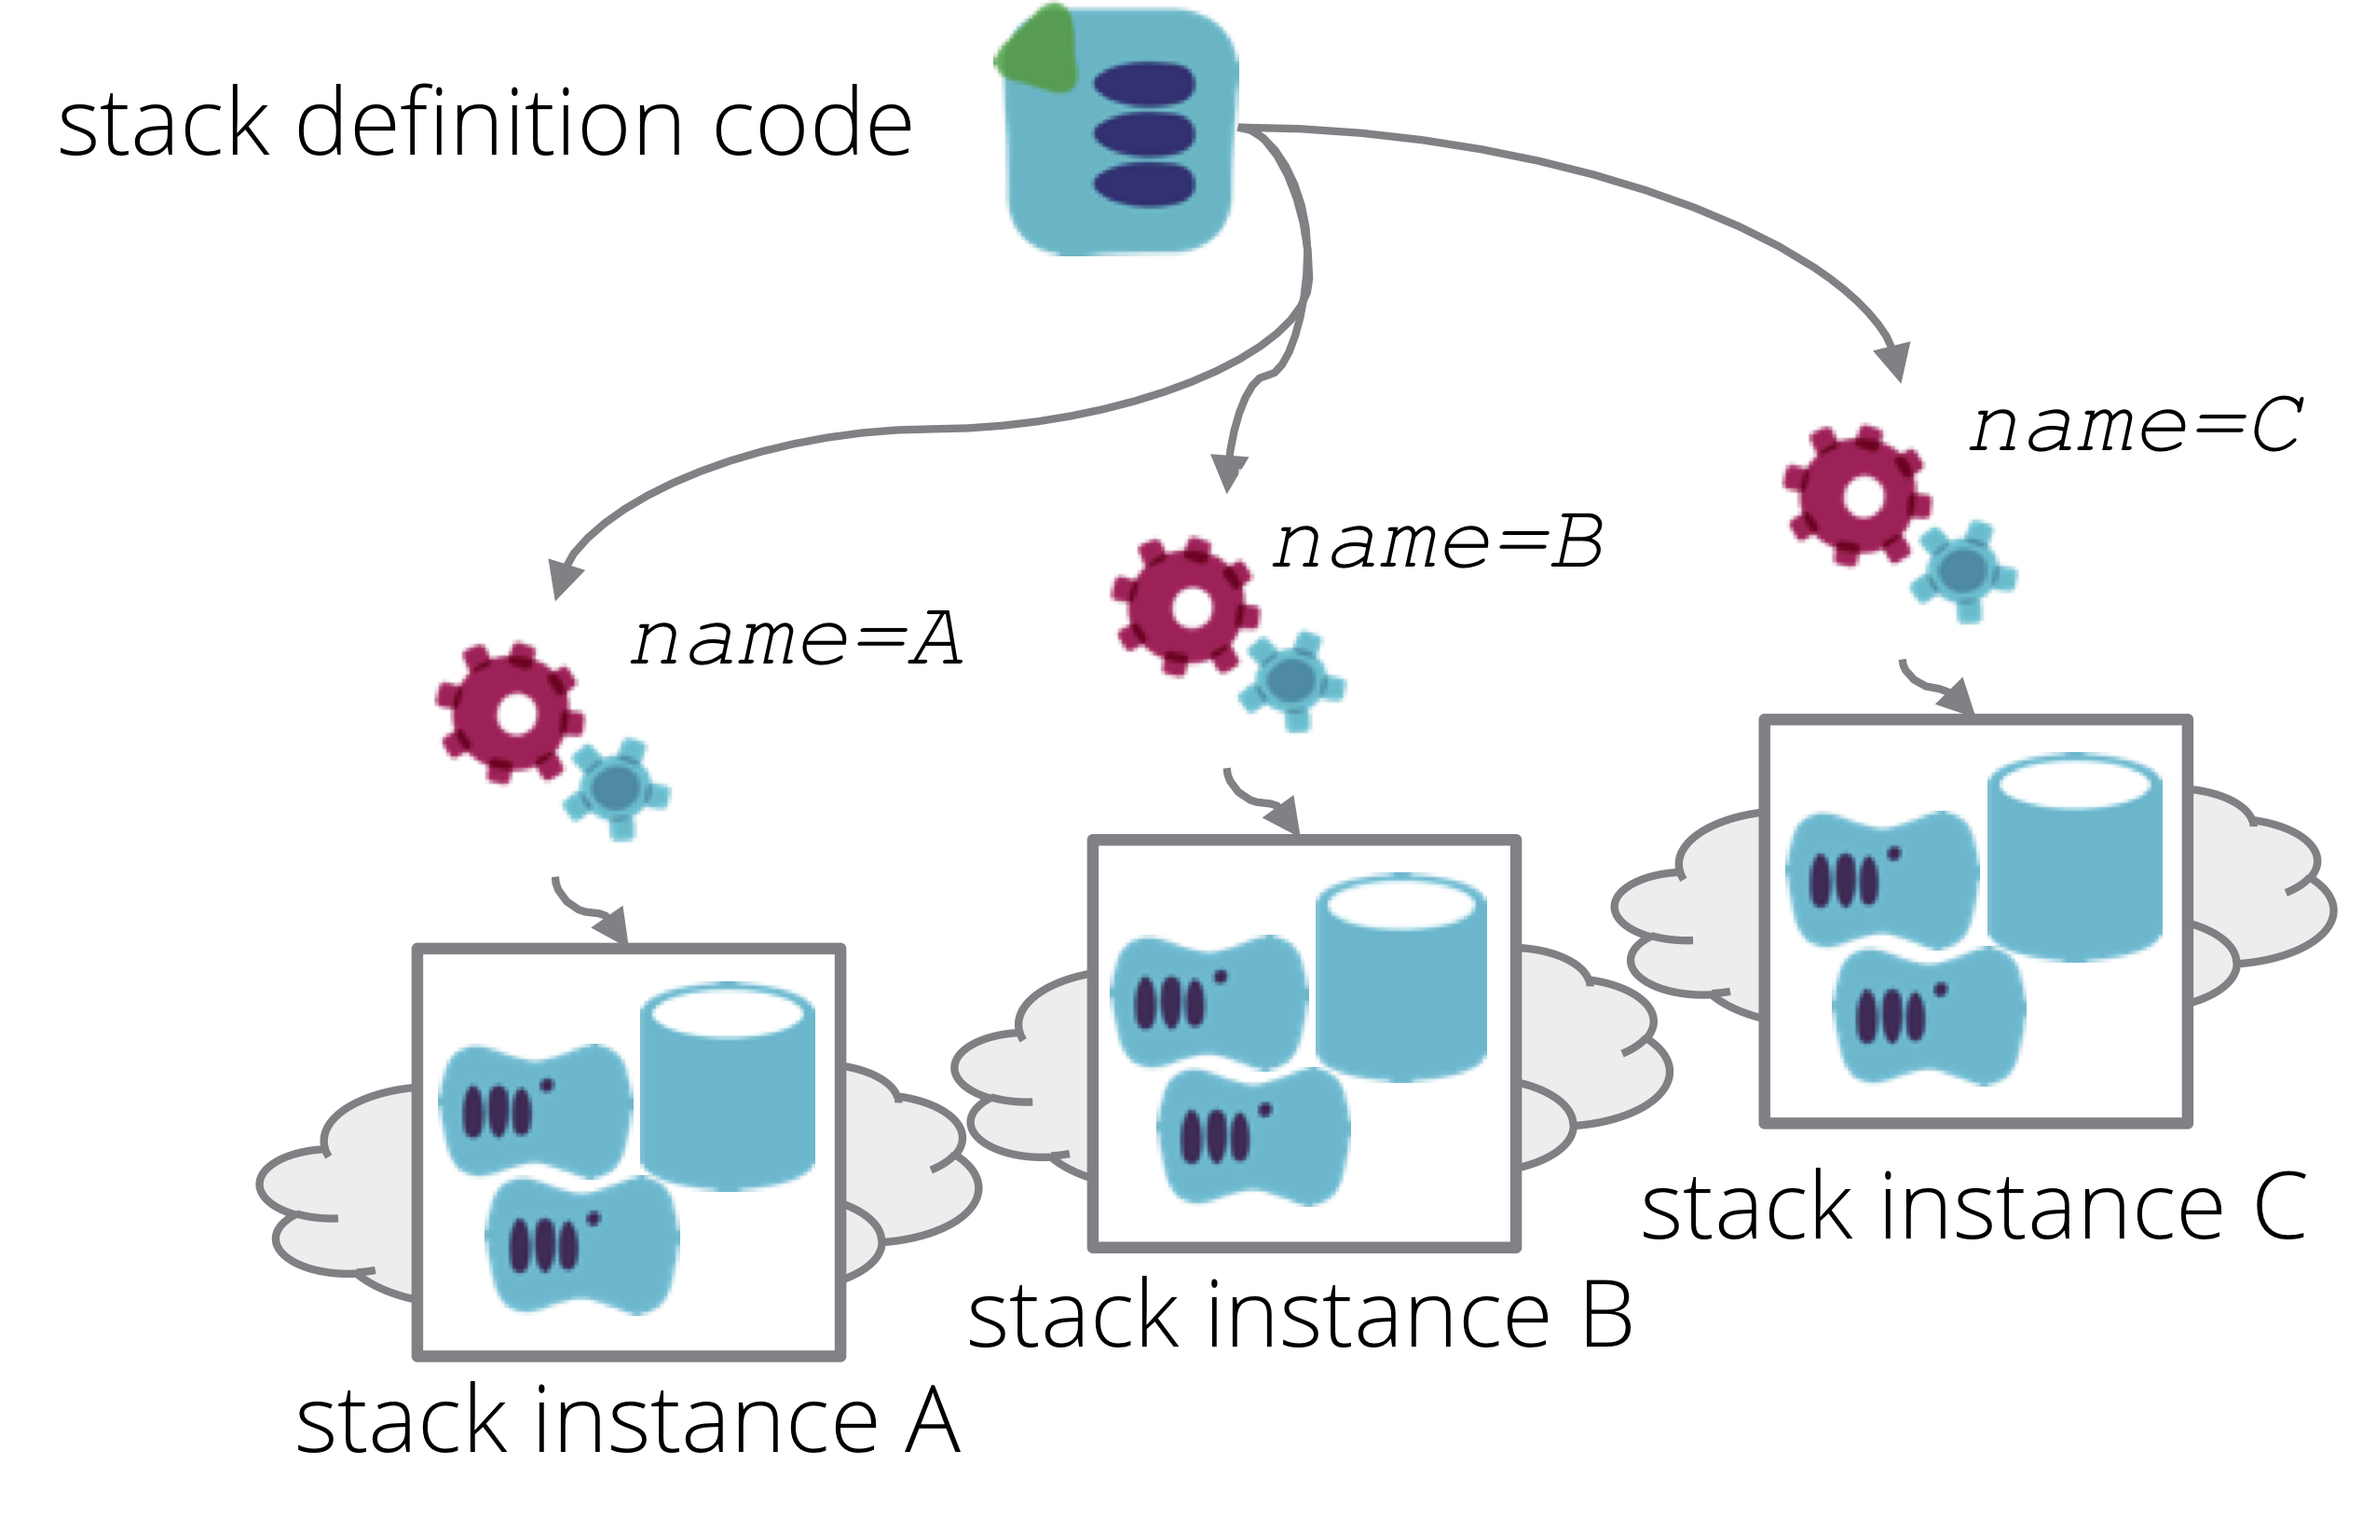
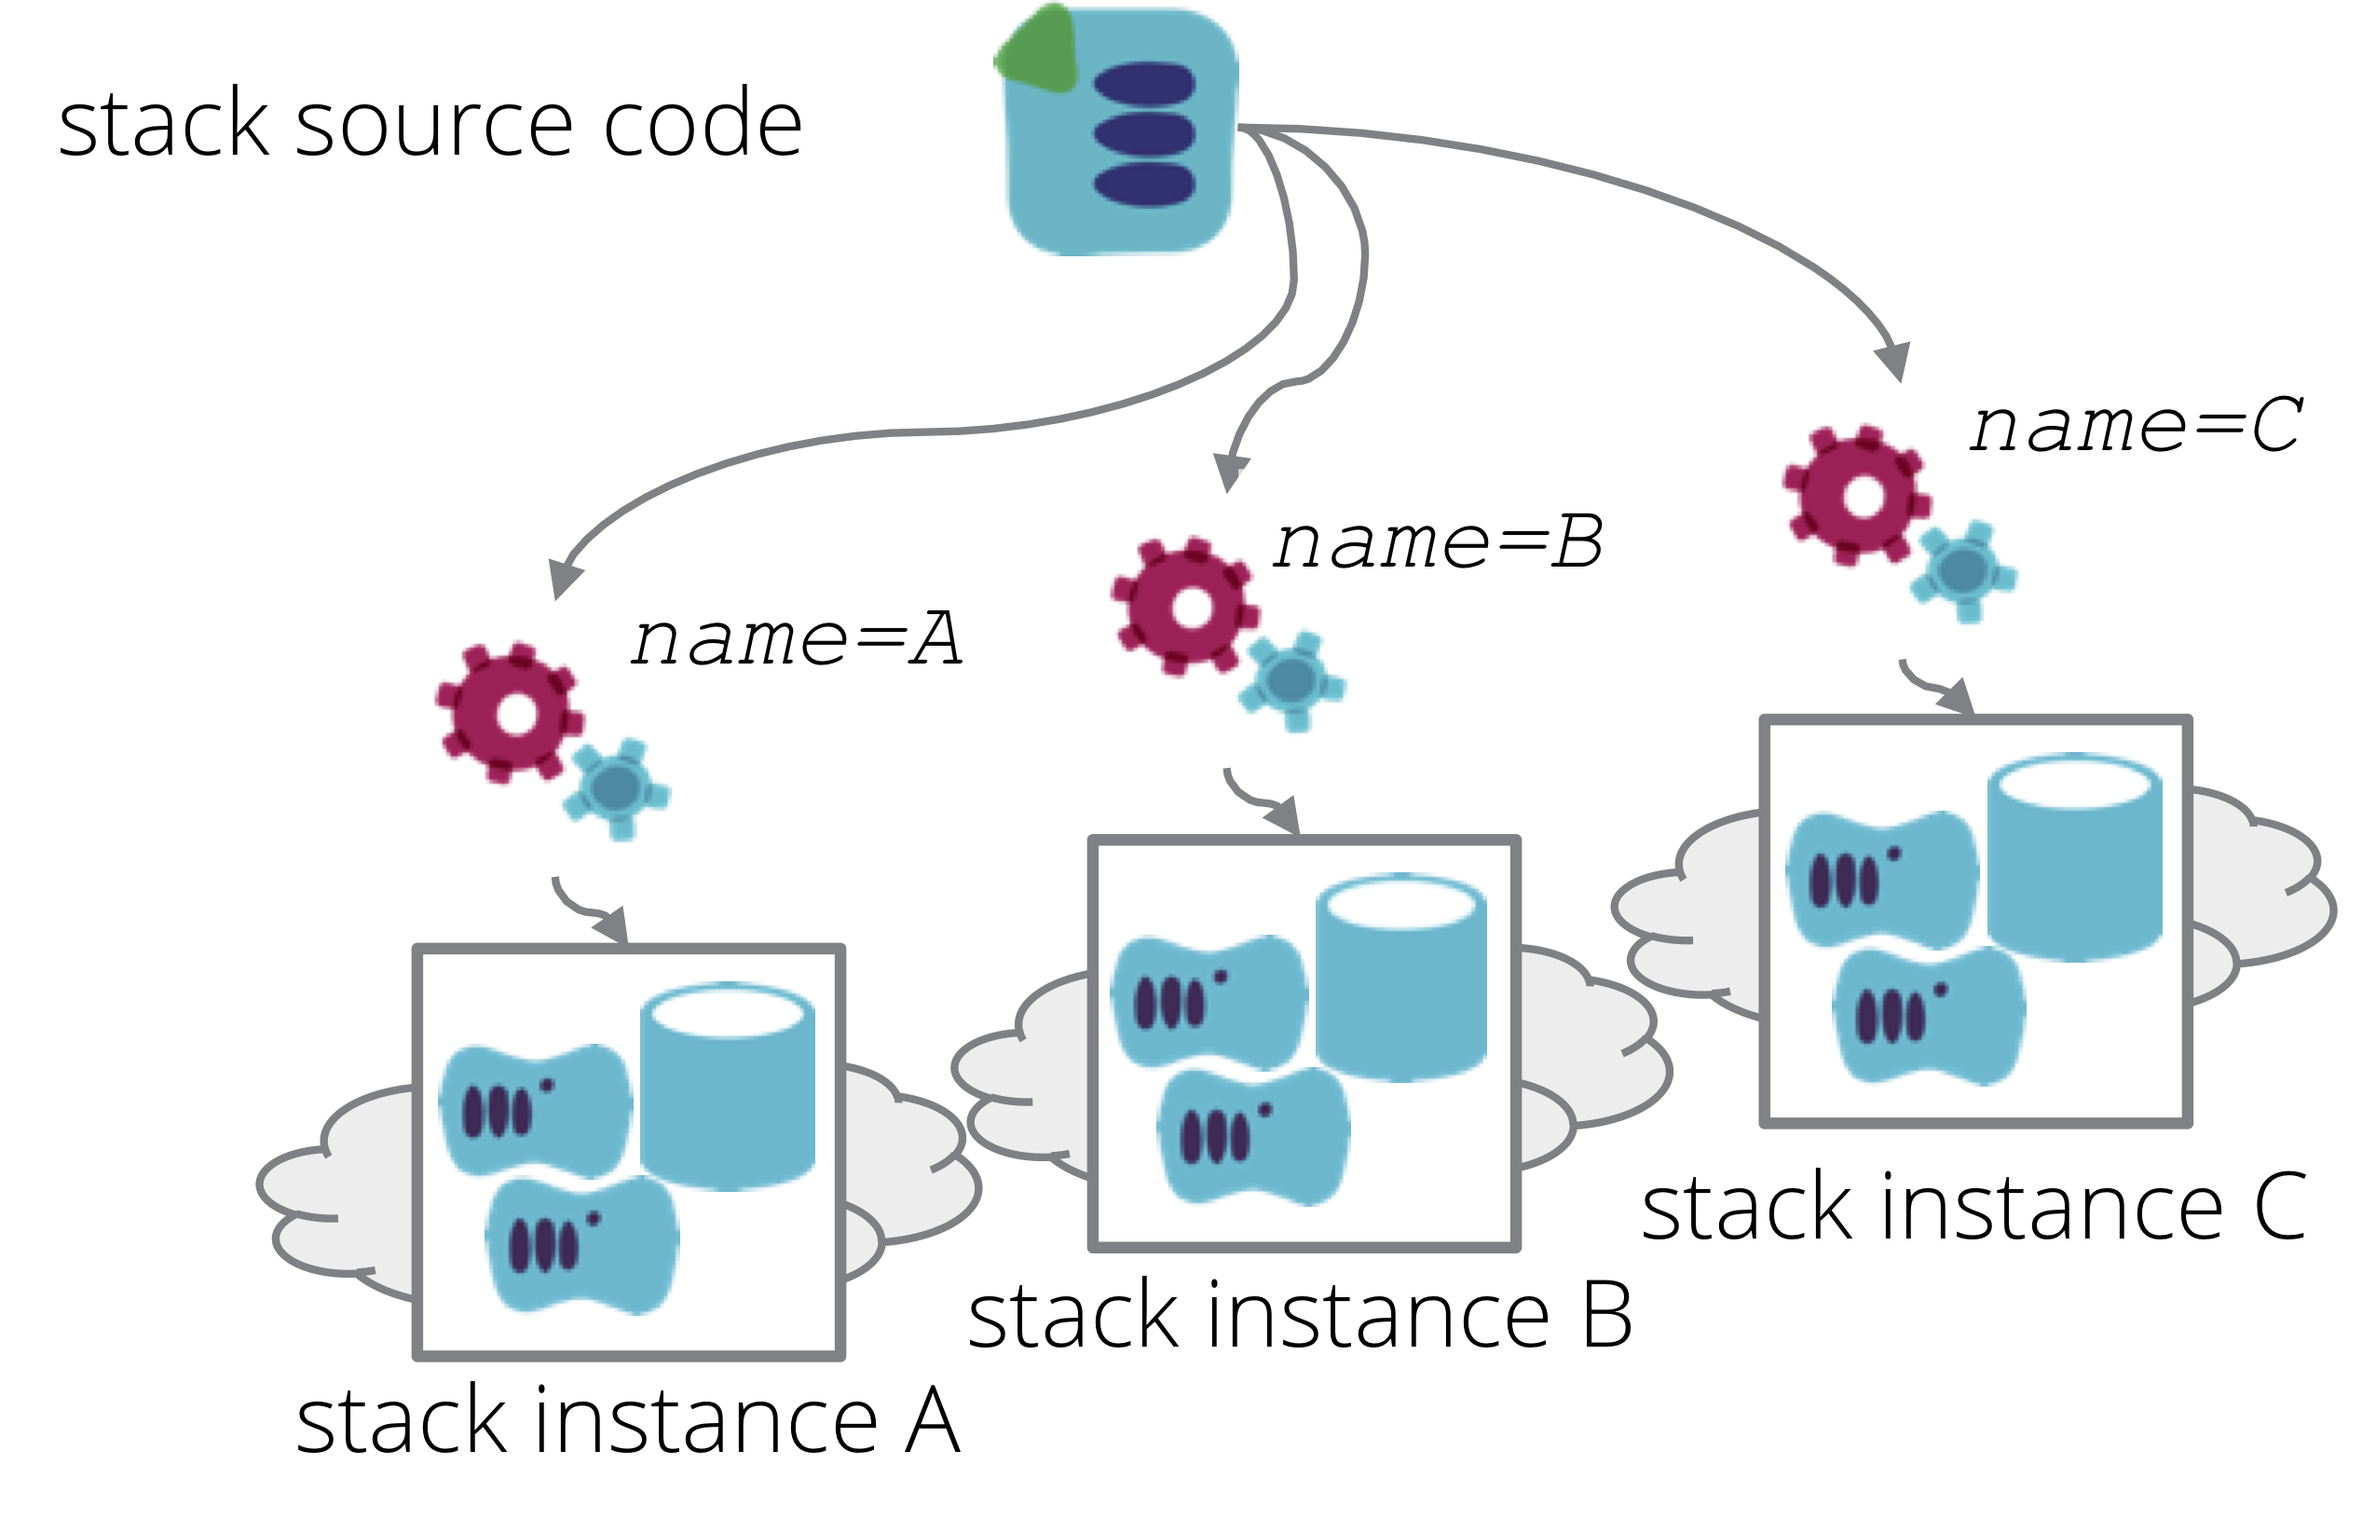
Purging definition as a term

Changed region(s): [[0.4957, 0.093, 0.5886, 0.31], [0.1239, 0.062, 0.3718, 0.124], [0.3408, 0.279, 0.3718, 0.31]]

diff --git a/_patterns/core-stack/template-stack.md b/_patterns/core-stack/template-stack.md
@@ -8,11 +8,11 @@ published: true
 status: review
 ---
 
-A Template Stack is an [infrastructure stack](/patterns/core-stack/) that is designed to be replicated consistently. The code for the stack definition can be used to create multiple instances, with minimum variation between them.
+A Template Stack is an [infrastructure stack](/patterns/core-stack/) that is designed so that its source code can be used to create and manage multiple, consistent instances.
 
 A great benefit of defining infrastructure as code is that it's easy to replicate infrastructure. This has a variety of uses, including:
 
-- *Consistency* - use the same stack definition code to create each environment used for testing new releases of software, as well as the production environment, to ensure accurate testing,
+- *Consistency* - use the same stack source code to create each environment used for testing new releases of software, as well as the production environment, to ensure accurate testing,
 - *Testability* - when making a change to infrastructure code, provision and test an instance of it before applying the change to production environments,
 - *High availability* - when a system fails, provision a new instance on demand to replace it,
 - *Scalability* - provision additional instances of infrastructure in different locations,
@@ -22,17 +22,16 @@ In all of these cases, it is useful to write infrastructure stack code so that i
 
 
 <figure>
-  <img src="images/template-stack.png" alt="A Template Stack is an infrastructure stack code that is designed to be replicated consistently"/>
-  <figcaption>A Template Stack is an infrastructure stack code that is designed to be replicated consistently.</figcaption>
+  <img src="images/template-stack.png" alt="A Template Stack is an infrastructure stack project that is designed to be replicated consistently"/>
+  <figcaption>A Template Stack is an infrastructure stack project that is designed to be replicated consistently.</figcaption>
 </figure>
 
 
-
-This pattern is similar to the [library stack pattern](/patterns/core-stack/library-stack.html), in which a single stack definition's code is also used to create multiple instances. However, instances of a library stack are normally extended and customized for different purposes, while instances of a template stack are intended to be nearly identical.
+This pattern is similar to the [library stack pattern](/patterns/core-stack/library-stack.html), in which a single stack's project code is also used to create multiple instances. However, instances of a library stack are normally extended and customized for different purposes, while instances of a template stack are intended to be nearly identical.
 
 So a defining characteristic of the template stack pattern is that there is very little variation between each instance of the stack. Therefore, implementations of this pattern should aim to minimize the scope for variance.
 
-Variance between stack instances is enabled by the use of [stack parameters](/patterns/stack-configuration/). The stack definition code specifies a number of parameters which can be set. For each stack instance, values are passed for these parameters, which the code uses to customize the instance.
+Variance between stack instances is enabled by the use of [stack parameters](/patterns/stack-configuration/). The stack code specifies a number of parameters which can be set. For each stack instance, values are passed for these parameters, which the code uses to customize the instance.
 
 Typically, parameters are used to define names and IDs to distinguish the elements of each instance from one another. This is particularly useful to avoid clashes between instances of infrastructure. For example, it may not be possible to create more than one subnet called `myAppSubnet`, so it would be useful to have a parameter named `INSTANCE_NAME`, and use this to name the subnet `myAppSubnet-${INSTANCE_NAME}`.
 
@@ -45,16 +44,16 @@ It is a red flag when a parameter is used as a conditional that decides whether 
 
 ## Alternative approaches
 
-Some teams use the [singleton stack anti-pattern](singleton-stack.html) to manage multiple instances of a stack. This involves creating a new copy of the stack definition code for each new environment or other instance. While this is a straightforward approach to implement, it makes it difficult to keep each instance consistent.
+Some teams use the [singleton stack anti-pattern](singleton-stack.html) to manage multiple instances of a stack. This involves creating a new copy of the stack code for each new environment or other instance. While this is a straightforward approach to implement, it makes it difficult to keep each instance consistent.
 
-A variation of the singleton stack is the [wrapper stack pattern]. Like the singleton stack, there is a separate copy of the stack definition code for each stack instance. However, the bulk of the infrastructure code is contained in a [stack module](/patterns/stack-structures/stack-module.html), a library which is imported into the stack definition project. This way the code is declared once - in the module - and re-used across each stack instance. Each stack definition project is effectively used as a mechanism to define parameter values for one stack instance.
+A variation of the singleton stack is the [wrapper stack pattern]. Like the singleton stack, there is a separate copy of the stack code for each stack instance. However, the bulk of the infrastructure code is contained in a [stack module](/patterns/stack-structures/stack-module.html), a library which is imported into the stack project. This way the code is declared once - in the module - and re-used across each stack instance. Each stack project is effectively used as a mechanism to define parameter values for one stack instance.
 
 
-## Testing stack definition code
+## Testing infrastructure stack code
 
-When making changes to an infrastructure stack definition's code, being able to provision a test instance enables you to test your changes before applying them to your production stack instance. As an individual engineer making changes to infrastructure code, you can provision and test your changes on your own sandbox instance before committing changes. As a team, you can use [Continuous Integration](https://martinfowler.com/articles/continuousIntegration.html) and [Continuous Delivery](https://martinfowler.com/bliki/ContinuousDelivery.html) to facilitate a consistent and reliable process for testing and delivering changes to your infrastructure. There are a number of considerations for [testing infrastructure changes] effectively, which will be defined in future patterns.
+When making changes to an infrastructure stack's code, being able to provision a test instance enables you to test your changes before applying them to the production instance of the stack. As an individual engineer making changes to infrastructure code, you can provision and test your changes on your own sandbox instance before committing changes. As a team, you can use [Continuous Integration](https://martinfowler.com/articles/continuousIntegration.html) and [Continuous Delivery](https://martinfowler.com/bliki/ContinuousDelivery.html) to facilitate a consistent and reliable process for testing and delivering changes to your infrastructure. There are a number of considerations for [testing infrastructure changes] effectively, which will be defined in future patterns.
 
 
 ## Delivering changes to infrastructure stacks
 
-Software development teams often use Continuous Delivery pipelines to test and release changes to their software. Infrastructure teams can follow this practice, ensuring that changes to stack definitions, and other infrastructure code, are delivered rapidly and reliably using pipelines. Patterns for doing this will be published here later.
+Software development teams often use Continuous Delivery pipelines to test and release changes to their software. Infrastructure teams can follow this practice, ensuring that changes to stack source code, and other infrastructure code, are delivered rapidly and reliably using pipelines. Patterns for doing this will be published here later.
